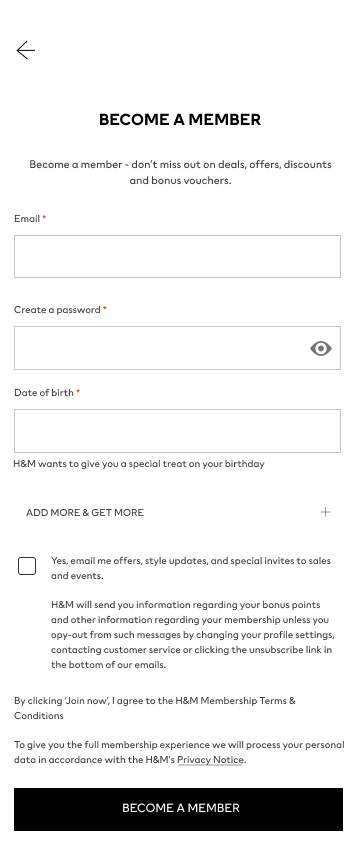
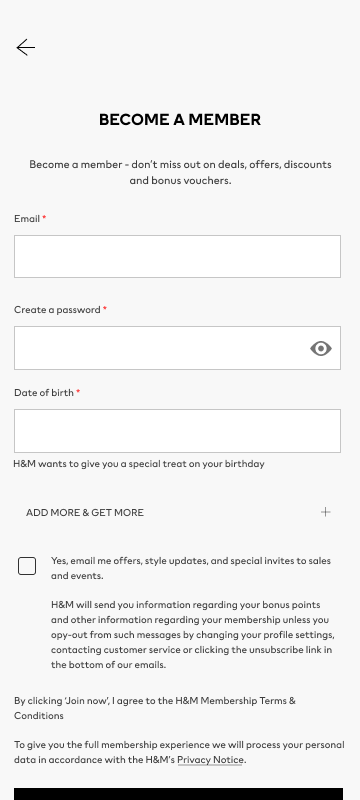
final changes

diff --git a/index.html b/index.html
@@ -61,8 +61,9 @@
       <div class="container mt-3">
         <div class="card myclass">
           <img class="card-img-top" src="images/first logo.png" alt="Card image" >
-          <img class="card-img-top" src="images/first logo.png" alt="Card image" >
-          <img class="card-img-top" src="images/first logo.png" alt="Card image" >
+          <img class="card-img-top" src="images/first.png" alt="Card image" >
+          <img class="card-img-top" src="images/become a member.png" alt="Card image" >
+          <img class="card-img-top" src="images/signed in.png" alt="Card image" >
           <div class="card-body">
           </div>
           </div>
@@ -71,8 +72,11 @@
 
     <div class="carousel-item">
       <div class="container mt-3">
-        <div class="card">
-          <img class="card-img-top" src="images/first logo.png" alt="Card image" >
+        <div class="card myclass">
+          <img class="card-img-top" src="images/signed in black.png" alt="Card image" >
+          <img class="card-img-top" src="images/forgot password.png" alt="Card image" >
+          <img class="card-img-top" src="images/first interface.png" alt="Card image" >
+          <img class="card-img-top" src="images/side pop.png" alt="Card image" >
           <div class="card-body">
           </div>
           </div>
@@ -81,8 +85,11 @@
 
     <div class="carousel-item">
       <div class="container mt-3">
-        <div class="card">
-          <img class="card-img-top" src="images/first logo.png" alt="Card image" >
+        <div class="card myclass">
+          <img class="card-img-top" src="images/home page.png" alt="Card image" >
+          <img class="card-img-top" src="images/ladies.png" alt="Card image" >
+          <img class="card-img-top" src="images/sustainability.png" alt="Card image" >
+          <img class="card-img-top" src="images/fav.png" alt="Card image" >
           <div class="card-body">
           </div>
           </div>

diff --git a/style.css b/style.css
@@ -3,6 +3,7 @@
     align-items: center;
     padding:0px;
     margin:0px;
+    background-color: rgb(240, 240, 240);
     overflow: hidden; /* Hide scrollbars */
 }
 h1{
@@ -81,6 +82,7 @@ ul {
 
  .myclass img{
     margin-left: 50px;
+    
  }
   .about img:hover{
     transform: scale(7);
